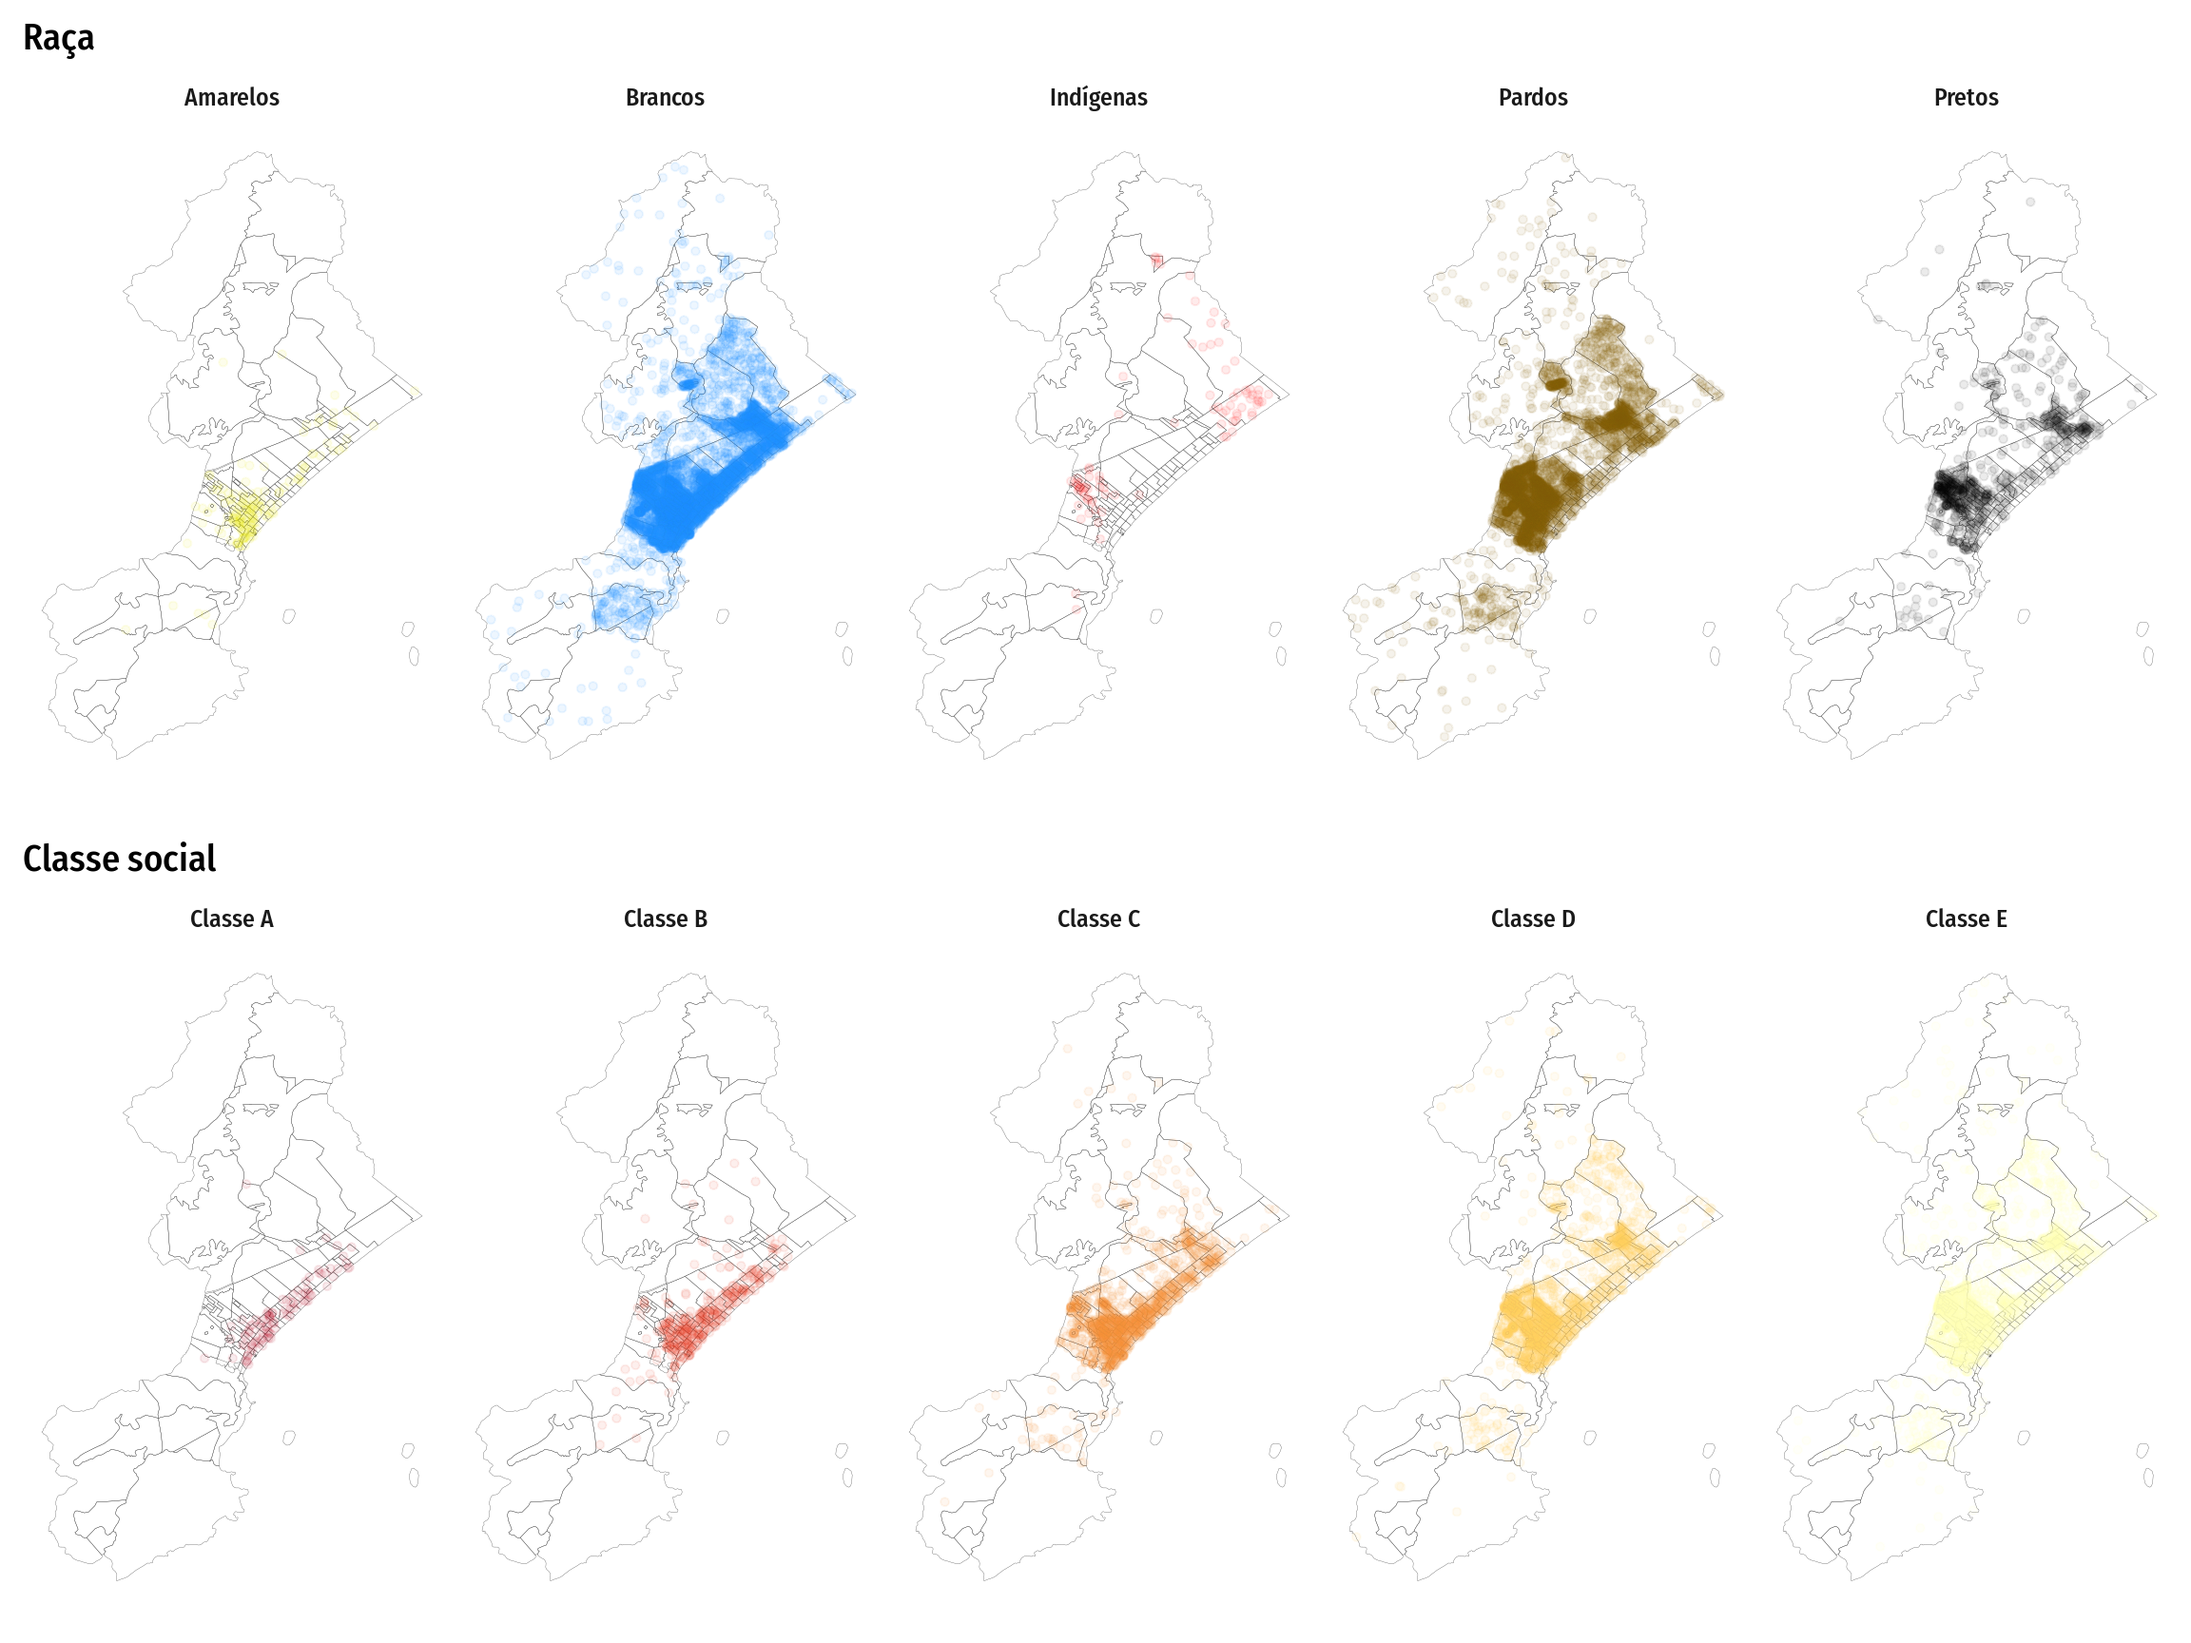
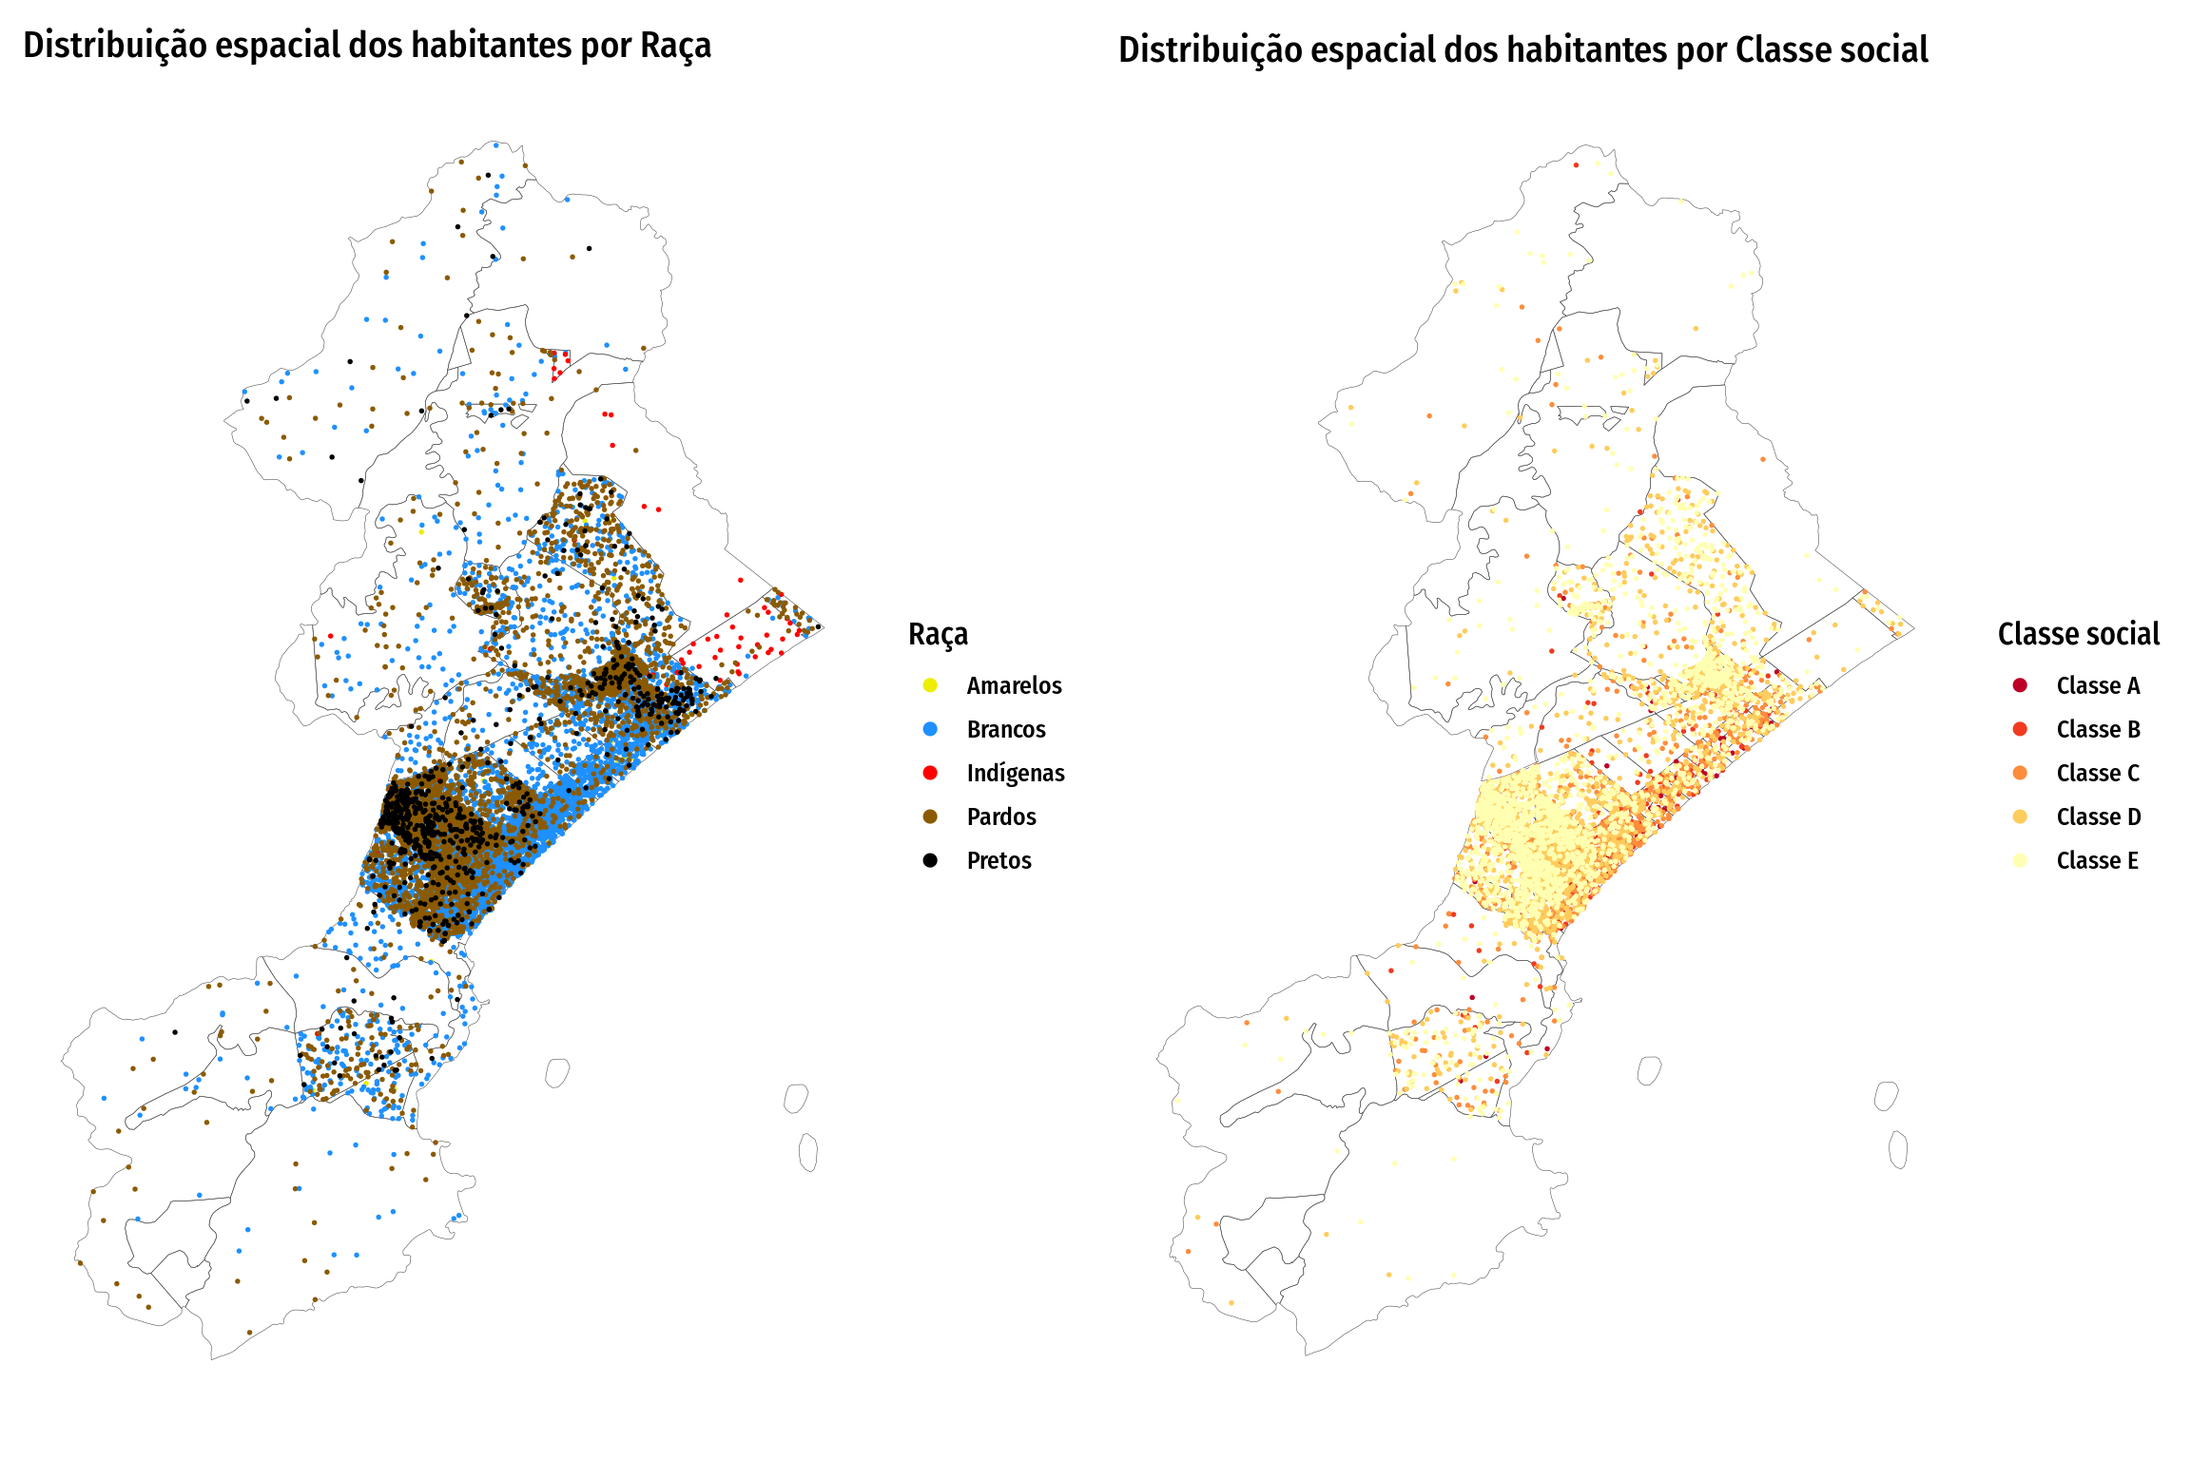
republica post

diff --git a/content/post/2019-02-27-mapa-de-pontos-raciais-no-r-com-o-pacote-sf.pt-br.html b/content/post/2019-02-27-mapa-de-pontos-raciais-no-r-com-o-pacote-sf.pt-br.html
@@ -1,6 +1,6 @@
 ---
 title: "Mapas raciais de pontos no R com o pacote sf"
-subtitle: 'da obtenção dos dados até o mapa final'
+subtitle: 'Da obtenção dos dados até os mapas'
 author: Bruno Pinheiro
 date: '2019-02-27'
 slug: mapa-de-pontos-raciais-no-r-com-o-pacote-sf.pt-br
@@ -25,8 +25,9 @@ bigimg: [{src: "/img/mapa-racial-pontos-capa.png"}]
 <p>Para isto utilizarei os pacotes <code>sf</code> para manipular os dados espaciais e o <code>ggplot2</code> para gerar os mapas. Além disso, farei uso também de funções criadas por mim, agrupadas por hora no pacote <code>seda</code>, para obter os dados do IBGE.</p>
 <div id="mapas-de-pontos-de-contagem" class="section level2">
 <h2>Mapas de pontos de contagem</h2>
+<p>Criar um mapa de pontos é simples quando você já tem o layer de pontos. O que esta metodologia propõe é recriar representações espaciais dadas por polígonos em representações espaciais dadas por pontos, baseadas nas informações associadas aos polígonos.</p>
 <p>A ideia é simples: cada ponto representará uma quantidade n de observações (ex.: um ponto para cada indivíduo, para cada 10 etc) e eles serão distribuídos aleatoriamente dentro de polígonos espaciais aos quais estão associados.</p>
-<p>Exemplo. Quando faz o Censo o IBGE registra dados demográficos e socioeconômicos de toda a população brasileira e ada pessoa é registra no setor censitário de sua residência. O setores censitários são pequenas porções territoriais contíguas utlizadas para fins cadastrais e constituem a unidade básica de desagregação espacial do Censo.</p>
+<p>Exemplo. Quando faz o Censo o IBGE registra dados demográficos e socioeconômicos de toda a população brasileira e cada pessoa é registrada no setor censitário de sua residência. O setores censitários são pequenas porções territoriais contíguas utlizadas para fins cadastrais e constituem a unidade básica de desagregação espacial do Censo.</p>
 <p>Com estes dados construir um mapa de pontos significa distribuir aleatoriamente pontos representando pessoas em seus respectivos setores censitários.</p>
 </div>
 <div id="passo-1-obter-os-dados" class="section level2">
@@ -36,11 +37,11 @@ bigimg: [{src: "/img/mapa-racial-pontos-capa.png"}]
 <p>Os dados demográficos fazem parte dos <a href="ftp://ftp.ibge.gov.br/Censos/Censo_Demografico_2010/Resultados_do_Universo/">resultados do universo</a> e os dados espaciais, isto é, os polígonos dos setores censitários, integram o conjunto de dados sobre <a href="ftp://geoftp.ibge.gov.br/organizacao_do_territorio/malhas_territoriais/">malhas territoriais</a>.</p>
 <p>Obter dados do IBGE, embora fácil, é uma tarefa dispendiosa. São muitos arquivos, é muito pesado para guardar tudo (além de desnecessário já que o IBGE já faz o serviço de armazená-los) e quem trabalha com estes dados vira e mexe precisa novamente baixá-los.</p>
 <p>Para facilitar esta tarefa eu criei algumas funções que facilitam a obtenção dos dados do IBGE diretamente no R, particularmente os dos resultados do universo e os dados espaciais. Elas fazem parte de um pacote chamado <code>seda</code>. Para construir os mapas não é necessário instalá-lo, basta ter os dados e você pode obtê-los nos links acima. Mas se você preferir seguir pelo caminho mais fácil:</p>
+<pre class="r"><code># para instalar o pacote seda
+devtools::install_github(&quot;bruno-pinheiro/seda&quot;)</code></pre>
 <p><strong>Obs.:</strong> o pacote <code>seda</code> foi testado apenas em linux Debian 9</p>
-<pre class="r"><code>## para instalar o pacote
-# devtools::install_github(&quot;bruno-pinheiro/seda&quot;)
+<pre class="r"><code># carregar pacotes
 library(seda)
-# outros pacotes
 library(sf)
 library(dplyr)
 library(tidyr)
@@ -66,11 +67,36 @@ rm(url)</code></pre>
 <p>Vou então buscar o nome do shapefile…</p>
 <pre class="r"><code>#listar arquivo .shp
 list_tmp(&quot;shp&quot;)</code></pre>
-<pre><code>## character(0)</code></pre>
+<pre><code>## [1] &quot;/tmp/RtmpxdkmxU/35SEE250GC_SIR.shp&quot;</code></pre>
 <p>e listar os arquivos em formato <code>.csv</code> que foram baixados.</p>
 <pre class="r"><code># listar arquivos .csv
 list_tmp(&quot;csv&quot;)</code></pre>
-<pre><code>## character(0)</code></pre>
+<pre><code>##  [1] &quot;/tmp/RtmpxdkmxU/Basico_SP2.csv&quot;          
+##  [2] &quot;/tmp/RtmpxdkmxU/Domicilio01_SP2.csv&quot;     
+##  [3] &quot;/tmp/RtmpxdkmxU/Domicilio02_SP2.csv&quot;     
+##  [4] &quot;/tmp/RtmpxdkmxU/DomicilioRenda_SP2.csv&quot;  
+##  [5] &quot;/tmp/RtmpxdkmxU/Entorno01_SP2.csv&quot;       
+##  [6] &quot;/tmp/RtmpxdkmxU/Entorno02_SP2.csv&quot;       
+##  [7] &quot;/tmp/RtmpxdkmxU/Entorno03_SP2.csv&quot;       
+##  [8] &quot;/tmp/RtmpxdkmxU/Entorno04_SP2.csv&quot;       
+##  [9] &quot;/tmp/RtmpxdkmxU/Entorno05_SP2.csv&quot;       
+## [10] &quot;/tmp/RtmpxdkmxU/Pessoa01_SP.csv&quot;         
+## [11] &quot;/tmp/RtmpxdkmxU/Pessoa02_SP.csv&quot;         
+## [12] &quot;/tmp/RtmpxdkmxU/Pessoa03_SP.csv&quot;         
+## [13] &quot;/tmp/RtmpxdkmxU/Pessoa04_SP.csv&quot;         
+## [14] &quot;/tmp/RtmpxdkmxU/Pessoa05_SP.csv&quot;         
+## [15] &quot;/tmp/RtmpxdkmxU/Pessoa06_SP.csv&quot;         
+## [16] &quot;/tmp/RtmpxdkmxU/Pessoa07_SP.csv&quot;         
+## [17] &quot;/tmp/RtmpxdkmxU/Pessoa08_SP.csv&quot;         
+## [18] &quot;/tmp/RtmpxdkmxU/Pessoa09_SP.csv&quot;         
+## [19] &quot;/tmp/RtmpxdkmxU/Pessoa10_SP.csv&quot;         
+## [20] &quot;/tmp/RtmpxdkmxU/Pessoa11_SP.csv&quot;         
+## [21] &quot;/tmp/RtmpxdkmxU/Pessoa12_SP.csv&quot;         
+## [22] &quot;/tmp/RtmpxdkmxU/Pessoa13_SP.csv&quot;         
+## [23] &quot;/tmp/RtmpxdkmxU/PessoaRenda_SP2.csv&quot;     
+## [24] &quot;/tmp/RtmpxdkmxU/responsavel01_sp2.csv&quot;   
+## [25] &quot;/tmp/RtmpxdkmxU/responsavel02_sp2.csv&quot;   
+## [26] &quot;/tmp/RtmpxdkmxU/ResponsavelRenda_SP2.csv&quot;</code></pre>
 <p>Pronto. O shapefile está nomeado como “35SEE250GC_SIR.shp” e as variáveis tabulares de interesse estão nos seguintes arquivos (sim, é preciso ler o dicionário de variáveis):</p>
 <ul>
 <li><code>Pessoa03_SP.csv</code>
@@ -274,44 +300,44 @@ rm(nas, pontos, v)
 
 camadas</code></pre>
 <pre><code>## $raca
-## Simple feature collection with 12123 features and 2 fields
+## Simple feature collection with 12086 features and 2 fields
 ## geometry type:  POINT
 ## dimension:      XY
-## bbox:           xmin: 285434.2 ymin: 7296287 xmax: 307169.2 ymax: 7330478
+## bbox:           xmin: 285443.3 ymin: 7295754 xmax: 307151.4 ymax: 7330695
 ## epsg (SRID):    31983
 ## proj4string:    +proj=utm +zone=23 +south +ellps=GRS80 +towgs84=0,0,0,0,0,0,0 +units=m +no_defs
 ## First 10 features:
 ##         CD_GEOCODI categoria                 geometry
-## 1  353760205000001   Brancos POINT (297010.8 7308840)
-## 2  353760205000001   Brancos POINT (297351.2 7309128)
-## 3  353760205000001   Brancos POINT (297365.7 7308909)
-## 4  353760205000001   Brancos POINT (297592.4 7309000)
-## 5  353760205000001   Brancos POINT (297305.6 7308634)
-## 6  353760205000001   Brancos POINT (297378.7 7308735)
-## 7  353760205000001   Brancos POINT (297296.3 7308868)
-## 8  353760205000001   Brancos POINT (297364.5 7308965)
-## 9  353760205000001   Brancos POINT (297387.4 7308843)
-## 10 353760205000001   Brancos POINT (297408.1 7308989)
+## 1  353760205000001   Brancos POINT (297360.1 7308998)
+## 2  353760205000001   Brancos POINT (297393.3 7308714)
+## 3  353760205000001   Brancos POINT (297253.3 7308865)
+## 4  353760205000001   Brancos POINT (297167.7 7308978)
+## 5  353760205000001   Brancos POINT (297314.5 7308839)
+## 6  353760205000001   Brancos   POINT (297317 7309213)
+## 7  353760205000001   Brancos POINT (297354.5 7308958)
+## 8  353760205000001   Brancos POINT (297652.6 7309018)
+## 9  353760205000001   Brancos POINT (296996.9 7308825)
+## 10 353760205000001   Brancos POINT (297408.1 7309041)
 ## 
 ## $renda
-## Simple feature collection with 6263 features and 2 fields
+## Simple feature collection with 6181 features and 2 fields
 ## geometry type:  POINT
 ## dimension:      XY
-## bbox:           xmin: 285678.5 ymin: 7296972 xmax: 307237.9 ymax: 7330292
+## bbox:           xmin: 285515.7 ymin: 7296513 xmax: 306920.8 ymax: 7330286
 ## epsg (SRID):    31983
 ## proj4string:    +proj=utm +zone=23 +south +ellps=GRS80 +towgs84=0,0,0,0,0,0,0 +units=m +no_defs
 ## First 10 features:
 ##         CD_GEOCODI categoria                 geometry
-## 1  353760205000001  Classe A POINT (297559.8 7309100)
-## 2  353760205000001  Classe A POINT (297342.2 7308677)
-## 3  353760205000001  Classe A POINT (297281.6 7308805)
-## 4  353760205000001  Classe A POINT (297265.6 7308925)
-## 5  353760205000001  Classe A POINT (297465.7 7309034)
-## 6  353760205000002  Classe A POINT (297697.6 7308986)
-## 7  353760205000003  Classe A POINT (297221.8 7308453)
-## 8  353760205000004  Classe A POINT (297030.3 7308254)
-## 9  353760205000014  Classe A POINT (297030.3 7308254)
-## 10 353760205000005  Classe A POINT (296717.8 7308895)
+## 1  353760205000001  Classe A POINT (297156.5 7308927)
+## 2  353760205000001  Classe A POINT (297319.6 7309036)
+## 3  353760205000005  Classe A POINT (296755.2 7308705)
+## 4  353760205000007  Classe A POINT (296853.4 7309423)
+## 5  353760205000008  Classe A POINT (297394.4 7309465)
+## 6  353760205000008  Classe A POINT (297426.5 7309398)
+## 7  353760205000009  Classe A POINT (297282.1 7310019)
+## 8  353760205000009  Classe A POINT (297373.4 7309870)
+## 9  353760205000009  Classe A   POINT (297687 7309750)
+## 10 353760205000009  Classe A POINT (297624.6 7309765)
 ## 
 ## $setores
 ## Simple feature collection with 130 features and 11 fields
@@ -362,7 +388,7 @@ p &lt;- lapply(1:2, function(i) {
 })
 
 do.call(grid.arrange, c(p, ncol = 2))</code></pre>
-<p><img src="/post/2019-02-27-mapa-de-pontos-raciais-no-r-com-o-pacote-sf.pt-br_files/figure-html/unnamed-chunk-8-1.png" width="1152" style="display: block; margin: auto;" /></p>
+<p><img src="/post/2019-02-27-mapa-de-pontos-raciais-no-r-com-o-pacote-sf.pt-br_files/figure-html/unnamed-chunk-9-1.png" width="1152" style="display: block; margin: auto;" /></p>
 </div>
 <div id="mapas-dos-grupos-populacionais" class="section level3">
 <h3>Mapas dos grupos populacionais</h3>
@@ -379,7 +405,7 @@ do.call(grid.arrange, c(p, ncol = 2))</code></pre>
     )
 
 do.call(gridExtra::grid.arrange, c(p, nrow = 2))</code></pre>
-<p><img src="/post/2019-02-27-mapa-de-pontos-raciais-no-r-com-o-pacote-sf.pt-br_files/figure-html/unnamed-chunk-9-1.png" width="1152" style="display: block; margin: auto;" /></p>
-<p>E aí, depois de ver esses mapas, quais suas conclusões sobre a relação entre renda, raça e local de moradia na cidade de Peruíbe?</p>
+<p><img src="/post/2019-02-27-mapa-de-pontos-raciais-no-r-com-o-pacote-sf.pt-br_files/figure-html/unnamed-chunk-10-1.png" width="1152" style="display: block; margin: auto;" /></p>
+<p>Depois de ver esses mapas, o que você pensa sobre a relação entre renda, raça e local de moradia na cidade de Peruíbe?</p>
 </div>
 </div>
